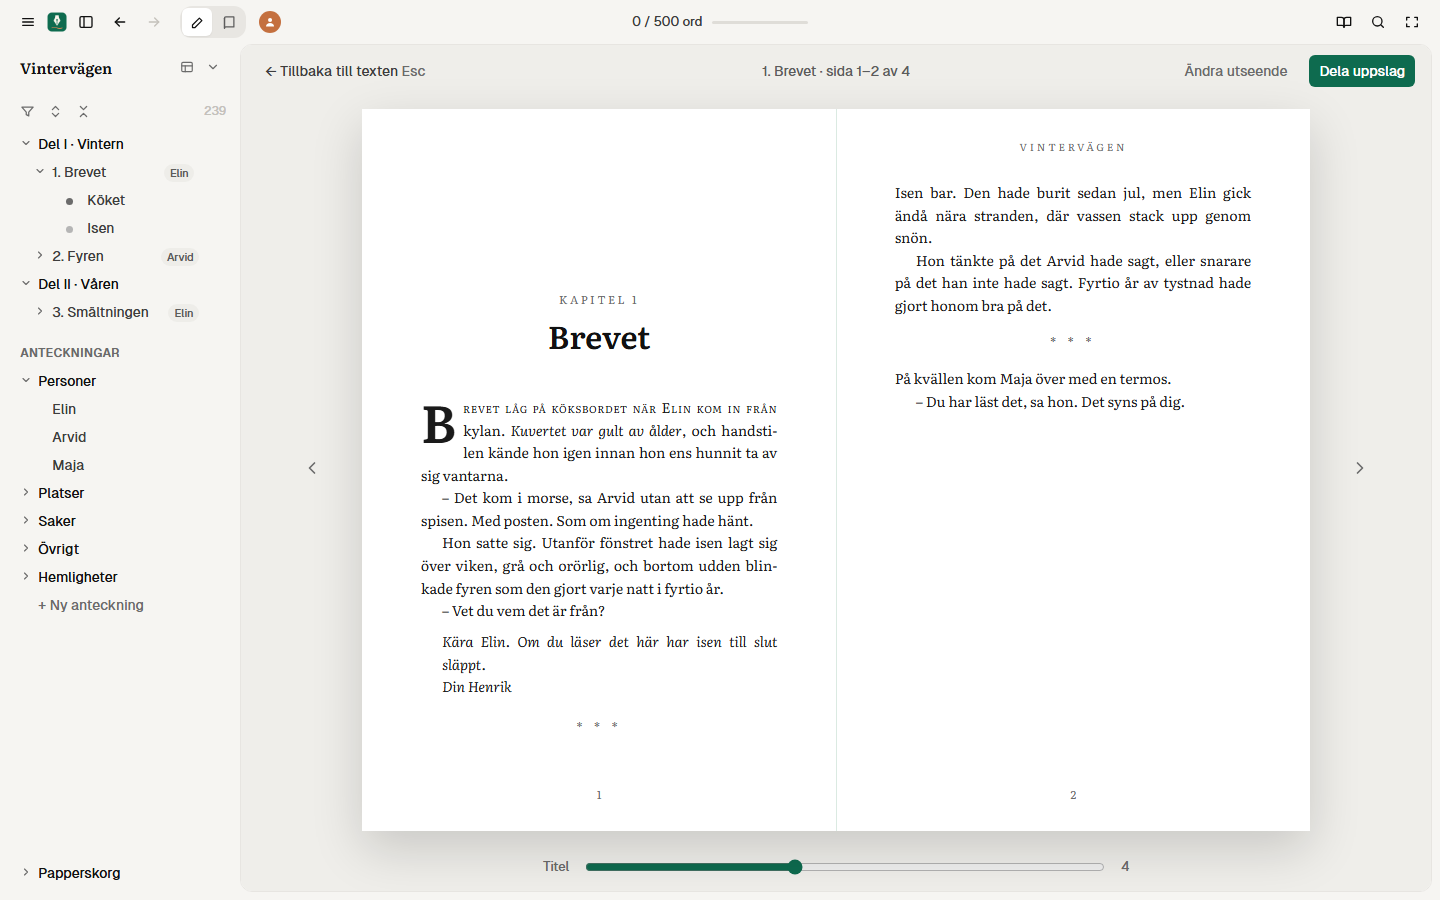
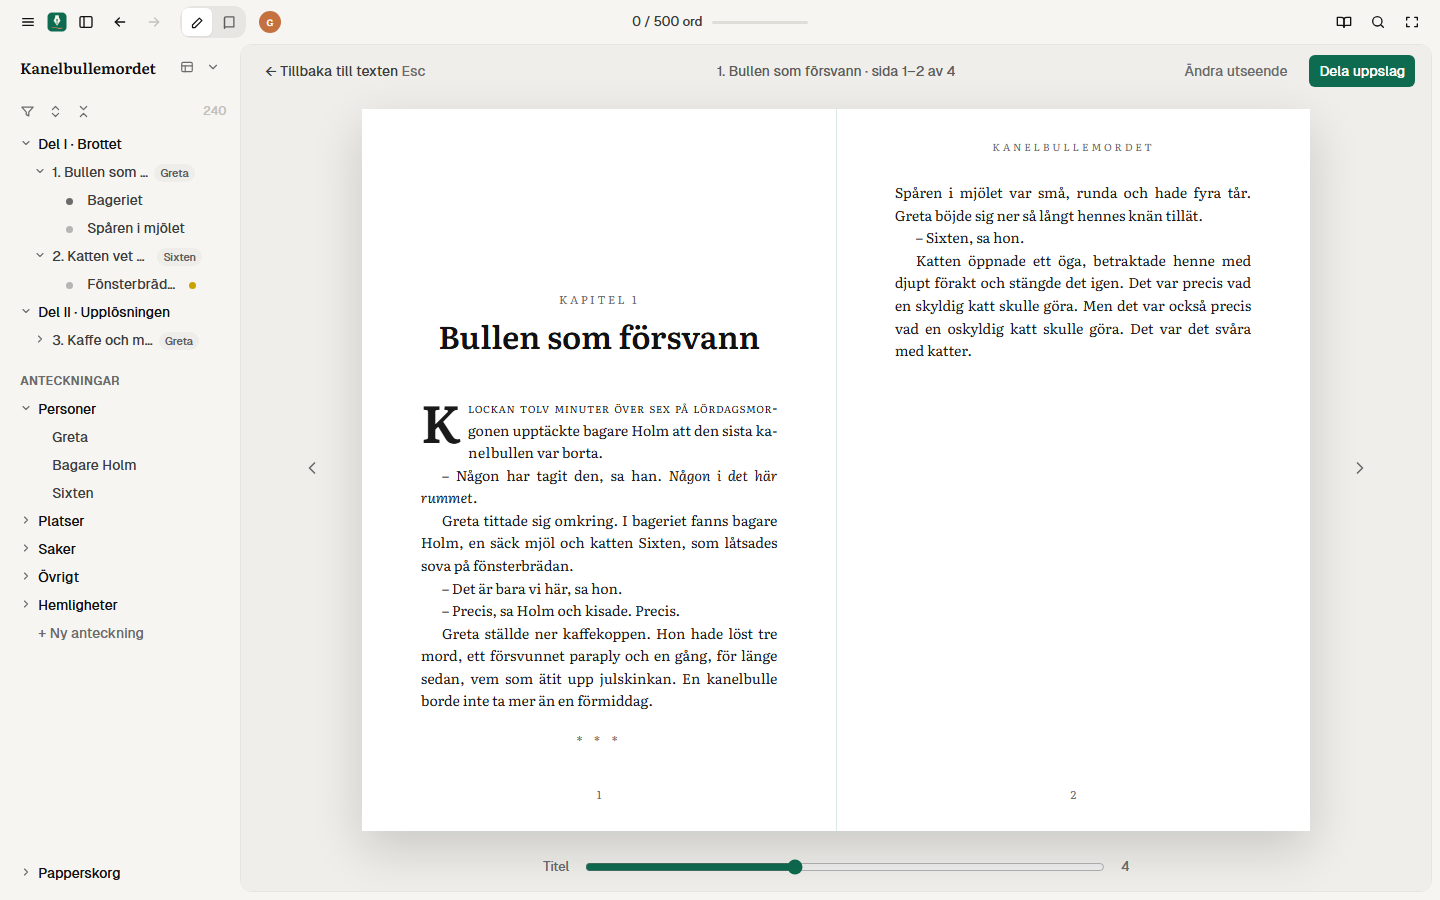
!U Webbsida: samma bok som i butikerna
* Bilderna visar Kanelbullemordet, som butiksbilderna, i stället för Vintervägen
* Bildbeskrivningarna om Greta och redaktörens kommentar, på svenska och engelska

#REL 0.4.7

diff --git a/site/en.html b/site/en.html
@@ -139,7 +139,7 @@
               src="bilder/person.png"
               width="1440"
               height="900"
-              alt="The person Arvid, with his lines and the chapters that name him"
+              alt="The person Greta, with her connections, lines and the chapters that name her"
             />
           </div>
         </section>
@@ -163,7 +163,7 @@
               src="bilder/granska.png"
               width="1440"
               height="900"
-              alt="Review beside the text, with two repetitions to look at"
+              alt="Review beside the text, with a comment from the editor"
             />
           </div>
         </section>

diff --git a/site/index.html b/site/index.html
@@ -142,7 +142,7 @@
               src="bilder/person.png"
               width="1440"
               height="900"
-              alt="Personen Arvid, med repliker och kapitlen där han nämns"
+              alt="Personen Greta, med kopplingar, repliker och kapitlen där hon nämns"
             />
           </div>
         </section>
@@ -166,7 +166,7 @@
               src="bilder/granska.png"
               width="1440"
               height="900"
-              alt="Granska bredvid texten, med två upprepningar att se över"
+              alt="Granska bredvid texten, med en kommentar från redaktören"
             />
           </div>
         </section>

diff --git a/scripts/store/showcaseBook.ts b/scripts/store/showcaseBook.ts
@@ -1,5 +1,5 @@
-// The book in the store pictures: served in place of src/demo/demoProject.ts while
-// scripts/store/storeImages.mjs takes them, so the app itself never ships it.
+// The book in the store and website pictures: served in place of src/demo/demoProject.ts while
+// storeImages.mjs and siteImages.mjs take them, so the app itself never ships it.
 
 export const DEMO_PROJECT_DIR = "/Kanelbullemordet.skrivro";
 
